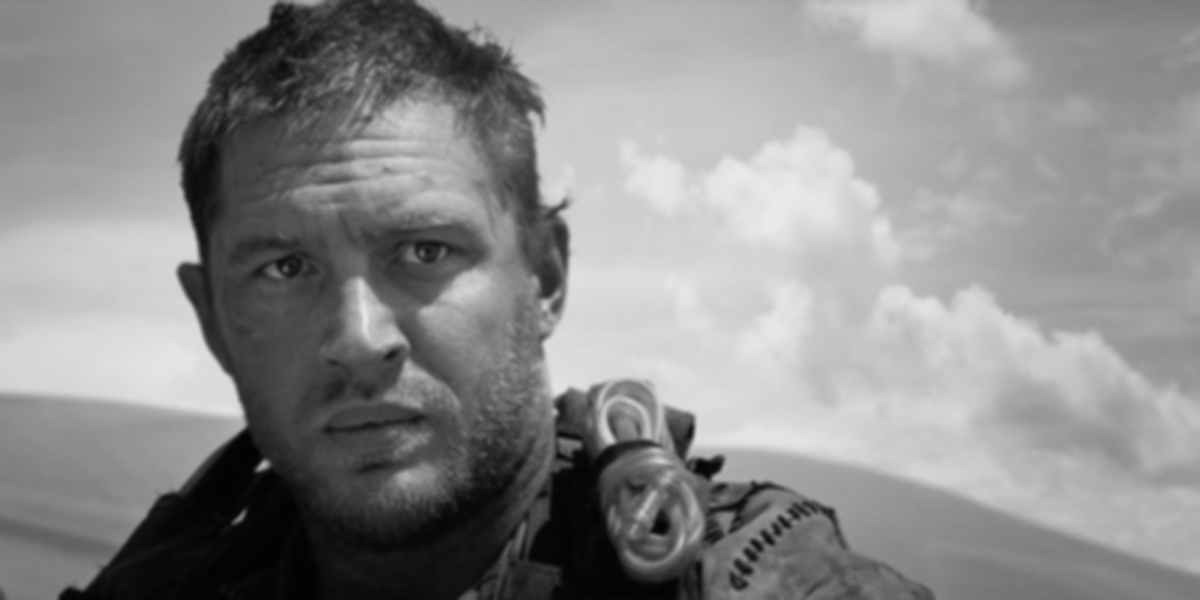
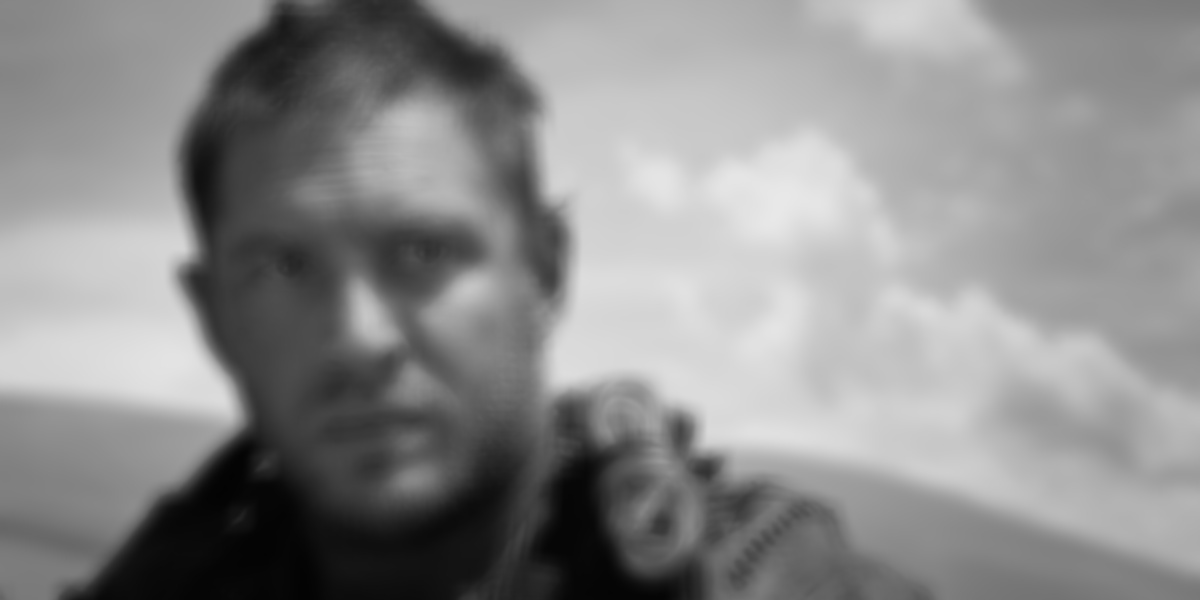
MultiChannel Blur works. Not so clean code though

diff --git a/image.cpp b/image.cpp
@@ -24,12 +24,20 @@ namespace image {
 
         return filter;
     }
-    void blur(string filename, int ksize) {
+    void blur(string filename, int ksize, int gray) {
         Mat filter = image::gaussianFilter(ksize);
-        Mat img = imread(filename, CV_LOAD_IMAGE_GRAYSCALE);
-        Mat bimg = Mat::zeros(img.rows, img.cols, CV_8UC1);
+        Mat img, bimg, bgr[3];
 
-        for (int k = 0; k < 1; k++) {
+        if (gray) {
+            img = imread(filename, CV_LOAD_IMAGE_GRAYSCALE);
+            bimg = Mat::zeros(img.rows, img.cols, CV_8UC1);
+        } else {
+            img = imread(filename, CV_LOAD_IMAGE_ANYCOLOR);
+            split(img, bgr);
+            bimg = Mat::zeros(img.rows, img.cols, CV_8UC3);    
+        }
+
+        if (gray) {
             for (int i = 0; i < img.rows; i++) {
                 for (int j = 0; j < img.cols; j++) {
                     int tmp = 0, sum = 0;
@@ -37,14 +45,34 @@ namespace image {
                     for (int m = 0; m < ksize; m++) {
                         for (int n = 0; n < ksize; n++) {
                             if (!( (i - ksize/2 + m) < 0 || (j - ksize/2 + n) < 0 || (i - ksize/2 + m) >= (img.rows) || (j - ksize/2 + n) >= (img.cols) )) {                                
-                                tmp += (int) img.at<uint8_t>(i - ksize/2 + m, j - ksize/2 + n, k) * filter.at<int>(m, n);
+                                tmp += (int) img.at<uint8_t>(i - ksize/2 + m, j - ksize/2 + n) * filter.at<int>(m, n);
                                 sum += filter.at<int>(m, n);
                             }
                         }
                     }
-                    bimg.at<uint8_t>(i, j, k) = tmp / sum;
+                    bimg.at<uint8_t>(i, j) = tmp / sum;
                 } 
             }
+        } else {
+            for (int k = 0; k < img.channels(); k++) {
+                for (int i = 0; i < img.rows; i++) {
+                    for (int j = 0; j < img.cols; j++) {
+                        int tmp = 0, sum = 0;
+                        
+                        for (int m = 0; m < ksize; m++) {
+                            for (int n = 0; n < ksize; n++) {
+                                if (!( (i - ksize/2 + m) < 0 || (j - ksize/2 + n) < 0 || (i - ksize/2 + m) >= (img.rows) || (j - ksize/2 + n) >= (img.cols) )) {                                
+                                    tmp += (int) bgr[k].at<uint8_t>(i - ksize/2 + m, j - ksize/2 + n) * filter.at<int>(m, n);
+                                    sum += filter.at<int>(m, n);
+                                }
+                            }
+                        }
+                        bgr[k].at<uint8_t>(i, j) = tmp / sum;
+                    } 
+                }    
+            }
+            vector<Mat> channels = {bgr[0], bgr[1], bgr[2]};
+            merge(channels, bimg);   
         }
 
 

diff --git a/main.cpp b/main.cpp
@@ -8,8 +8,10 @@ using namespace std;
 
 int main() {
 
-    image::blur("d.jpg", 7);
+    // Mat img = imread("s.jpg", CV_LOAD_IMAGE_ANYCOLOR);
+    // cout << (int)(uint8_t)img.at<Vec3d>(14, 44)[0] << endl;
 
+    image::blur("s.jpg", 9, 0);
 
     return 0;
 }

diff --git a/dsp.hpp b/dsp.hpp
@@ -30,5 +30,5 @@ namespace filters {
 
 namespace image {
     cv::Mat gaussianFilter(int);
-    void blur(string, int);
+    void blur(string, int, int);
 };
